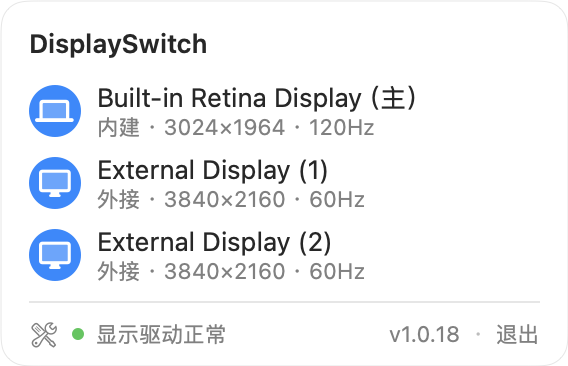
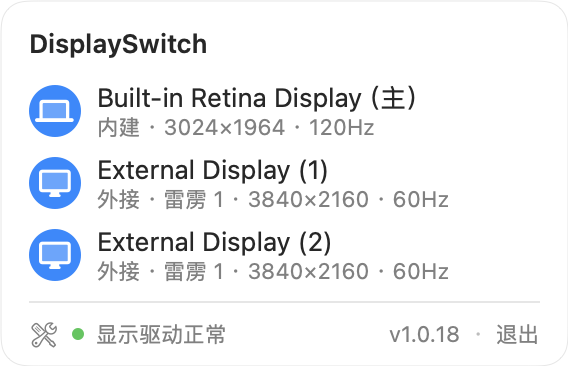
✨ 候选版 1.0.18:说明行写外接屏接在 Mac 的哪个口,如「外接 · 雷雳 1」
- 按系统显示交换器的当前路由对应:屏的显示控制器(dispextN)→ 下游通路 → 机身端口号与类型
- 按控制器对应,同型号、EDID 相同的屏也不会对错;读不到就不写,关着的屏不写口
- 写法:雷雳 N / USB-C N / HDMI;USB-C 口有雷雳隧道通路即算雷雳口
- 真机:两块屏都读出「雷雳 1」,与端口传输节点、系统信息一致;首次约 50 毫秒,之后约 1 毫秒
- 新增 8 项测试(路由解析、真实形态夹具的整链对应、说明行、真机自洽)
- 显示器那一端的接口识别只记录,不做

diff --git a/Sources/DisplaySwitchCore/MacPort.swift b/Sources/DisplaySwitchCore/MacPort.swift
@@ -1,0 +1,98 @@
+import Foundation
+
+/// 外接屏接在 Mac 的哪个口——只说电脑这一端(他的要求,2026-10-23:「外接 · 雷雳 1」这样)。
+/// 显示器那一端接的什么口不写:DDC/CI 其实读得到当前输入源,但编号由厂商自定,他判断意义不大。
+public enum MacPort: Equatable, Sendable {
+    /// 带雷雳的 USB-C 口(机身上标着闪电的那种),编号同系统信息里的 Receptacle。
+    case thunderbolt(Int)
+    /// 不带雷雳的 USB-C 口。
+    case usbC(Int)
+    case hdmi(Int)
+}
+
+/// 说明行里的写法:「雷雳 1」「USB-C 2」「HDMI」。机身只有一个 HDMI 口时不写编号。
+public func macPortLabel(_ port: MacPort) -> String {
+    switch port {
+    case .thunderbolt(let n): "雷雳 \(n)"
+    case .usbC(let n): "USB-C \(n)"
+    case .hdmi(let n): n == 1 ? "HDMI" : "HDMI \(n)"
+    }
+}
+
+// MARK: - 从系统的显示交换器读出「哪块屏走哪个口」
+//
+// Apple Silicon 上,每块外接屏由一个显示控制器(设备树里的 `dispext0`、`dispext1`……)输出,
+// 再经显示交换器(`display-crossbar0`)路由到某个机身端口的某条通路(`atc0` 的直连口,或它的几条雷雳隧道)。
+// 交换器驱动的 `current-state` 记着当前路由,形如 `0:ufp0,0-dfp0,1`:上游第 0 个(`ufp-endpoints` 里的
+// `dispext0`)接到下游第 0 个端点的 1 号口。下游每条通路的节点上写着 `port-type`(2 = USB-C,6 = HDMI)、
+// `port-number`(机身端口号)与 `transport-tunneled`(是不是雷雳隧道)。2026-10-23 在他的机器上逐项核对过:
+// 两块同型号屏分别是 `0:ufp0,0-dfp0,1` 与 `0:ufp1,0-dfp0,2`,即 1 号口的两条雷雳隧道,
+// 与端口传输节点(`Port-USB-C@1/CIO/DisplayPort@0/1`)、系统信息(Receptacle 1 上接着拓展坞)一致。
+// 这条链按显示控制器对应,**同型号、EDID 完全相同的两块屏也不会对错**——EDID 对不上是哪块,曾是不写接法的原因。
+// 都是系统未写成文档的数据,解析不了就不写,不猜。
+
+/// 交换器里的一条路由。
+struct CrossbarRoute: Equatable {
+    let domain: Int
+    /// 上游序号:交换器 `ufp-endpoints` 里的第几个(如 `dispext0`)。
+    let ufp: Int
+    /// 下游端点序号(对应下游节点的 `dp-switch-dfp-endpoint`)。
+    let dfpEndpoint: Int
+    /// 下游端点里的第几条通路(对应 `dp-switch-dfp-port`;0 是直连,1 起是雷雳隧道)。
+    let dfpPort: Int
+}
+
+/// 解析一条路由,如 `0:ufp0,0-dfp0,1`;格式对不上返回 nil。
+func parseCrossbarRoute(_ text: String) -> CrossbarRoute? {
+    let pattern = #"^(\d+):ufp(\d+),\d+-dfp(\d+),(\d+)$"#
+    guard let regex = try? NSRegularExpression(pattern: pattern),
+          let m = regex.firstMatch(in: text, range: NSRange(text.startIndex..., in: text)), m.numberOfRanges == 5 else { return nil }
+    let n = (1...4).map { Int((text as NSString).substring(with: m.range(at: $0))) }
+    guard let domain = n[0], let ufp = n[1], let endpoint = n[2], let port = n[3] else { return nil }
+    return CrossbarRoute(domain: domain, ufp: ufp, dfpEndpoint: endpoint, dfpPort: port)
+}
+
+/// 交换器下游的一条通路(设备树里 `atc0-dpphy`、`atc0-dpin0` 这类节点上的属性)。
+struct CrossbarDFP: Equatable {
+    let domain: Int
+    let endpoint: Int
+    let port: Int
+    /// 2 = USB-C,6 = HDMI(实测)。
+    let portType: Int
+    let portNumber: Int
+    let tunneled: Bool
+}
+
+/// 一条通路属于机身哪个口。USB-C 口只要有雷雳隧道通路(同一端点下有 `tunneled` 的),就是雷雳口——
+/// 即便这块屏此刻是直连(不走隧道),口本身还是机身上那个雷雳口。
+func macPort(of dfp: CrossbarDFP, among all: [CrossbarDFP]) -> MacPort? {
+    switch dfp.portType {
+    case 2:
+        let hasTunnel = all.contains { $0.domain == dfp.domain && $0.endpoint == dfp.endpoint && $0.tunneled }
+        return hasTunnel ? .thunderbolt(dfp.portNumber) : .usbC(dfp.portNumber)
+    case 6:
+        return .hdmi(dfp.portNumber)
+    default:
+        return nil
+    }
+}
+
+/// 把交换器的路由翻成「显示控制器名 → 机身端口」,如 `["dispext0": .thunderbolt(1)]`。
+/// 某条路由对不上上游名字或下游通路,就跳过那一条。
+func macPortsByController(routes: [String], ufpEndpoints: [String], dfps: [CrossbarDFP]) -> [String: MacPort] {
+    var result: [String: MacPort] = [:]
+    for text in routes {
+        guard let r = parseCrossbarRoute(text), ufpEndpoints.indices.contains(r.ufp),
+              let dfp = dfps.first(where: { $0.domain == r.domain && $0.endpoint == r.dfpEndpoint && $0.port == r.dfpPort }),
+              let port = macPort(of: dfp, among: dfps) else { continue }
+        result[ufpEndpoints[r.ufp]] = port
+    }
+    return result
+}
+
+/// 从 CoreDisplay 给的设备树位置里取出显示控制器名,如 `…/dispext0@B0000000/…` → `dispext0`。
+func displayController(inLocation location: String) -> String? {
+    guard let regex = try? NSRegularExpression(pattern: #"(dispext\d+)"#),
+          let m = regex.firstMatch(in: location, range: NSRange(location.startIndex..., in: location)) else { return nil }
+    return (location as NSString).substring(with: m.range(at: 1))
+}

diff --git a/Sources/DisplaySwitchCore/CGDisplayService.swift b/Sources/DisplaySwitchCore/CGDisplayService.swift
@@ -116,6 +116,79 @@ public final class CGDisplayService: SystemDisplayService {
         return DisplayMode(pixelWidth: mode.pixelWidth, pixelHeight: mode.pixelHeight, refreshRate: mode.refreshRate)
     }
 
+    /// 见协议注释。三步,任何一步拿不到就少写或不写,不猜:
+    /// ① 每块亮着的外接屏由哪个显示控制器输出(CoreDisplay 私有符号给的设备树位置里的 `dispextN`);
+    /// ② 显示交换器把各控制器路由到哪条下游通路(交换器驱动的 `current-state`);
+    /// ③ 那条通路属于机身哪个口(通路节点上的 `port-type` / `port-number` / `transport-tunneled`)。
+    public func macPorts() -> [CGDirectDisplayID: MacPort] {
+        guard let info = Self.displayInfoDictionary else { return [:] }
+        let byController = Self.macPortsByDisplayController()
+        guard !byController.isEmpty else { return [:] }
+        var result: [CGDirectDisplayID: MacPort] = [:]
+        for d in activeDisplays() where !d.isBuiltin {
+            guard let dict = info(d.id)?.takeRetainedValue() as? [String: Any],
+                  let location = dict["IODisplayLocation"] as? String,
+                  let controller = displayController(inLocation: location),
+                  let port = byController[controller] else { continue }
+            result[d.id] = port
+        }
+        return result
+    }
+
+    private typealias DisplayInfoFunction = @convention(c) (CGDirectDisplayID) -> Unmanaged<CFDictionary>?
+
+    /// CoreDisplay 的私有符号:给出一块屏在设备树里的位置。公开接口里没有从屏幕编号到显示控制器的对应;
+    /// 显示器工具(MonitorControl、BetterDisplay)也靠它。找不到就不写接口。
+    private static let displayInfoDictionary: DisplayInfoFunction? = {
+        guard let handle = dlopen("/System/Library/Frameworks/CoreDisplay.framework/CoreDisplay", RTLD_LAZY),
+              let symbol = dlsym(handle, "CoreDisplay_DisplayCreateInfoDictionary") else { return nil }
+        return unsafeBitCast(symbol, to: DisplayInfoFunction.self)
+    }()
+
+    /// 读显示交换器:各交换器驱动(`AppleDisplayCrossbar` 的子类)的当前路由、它上游的控制器名单,
+    /// 加上所有下游通路的属性(挂在每个 `IODPPortService` 上方的设备节点上)。
+    private static func macPortsByDisplayController() -> [String: MacPort] {
+        var dfps: [CrossbarDFP] = []
+        forEachService(matching: "IODPPortService") { svc in
+            func number(_ key: String) -> Int? {
+                guard let data = IORegistryEntrySearchCFProperty(svc, kIOServicePlane, key as CFString, kCFAllocatorDefault,
+                                                                 IOOptionBits(kIORegistryIterateRecursively | kIORegistryIterateParents)) as? Data,
+                      data.count >= 4 else { return nil }
+                return Int(data.withUnsafeBytes { $0.loadUnaligned(as: UInt32.self) })
+            }
+            guard let domain = number("dp-switch-dfp-domain"), let endpoint = number("dp-switch-dfp-endpoint"),
+                  let port = number("dp-switch-dfp-port"), let type = number("port-type"),
+                  let portNumber = number("port-number") else { return }
+            dfps.append(CrossbarDFP(domain: domain, endpoint: endpoint, port: port, portType: type,
+                                    portNumber: portNumber, tunneled: (number("transport-tunneled") ?? 0) != 0))
+        }
+        var result: [String: MacPort] = [:]
+        forEachService(matching: "AppleDisplayCrossbar") { crossbar in
+            guard let state = properties(of: crossbar)["current-state"] as? [String: Any],
+                  let routes = state["dfp"] as? [String] else { return }
+            var parent: io_registry_entry_t = 0
+            guard IORegistryEntryGetParentEntry(crossbar, kIOServicePlane, &parent) == KERN_SUCCESS else { return }
+            defer { IOObjectRelease(parent) }
+            // 名单是一串以 0 结尾的字符串:"dispext0\0dispext1\0…"。
+            guard let data = properties(of: parent)["ufp-endpoints"] as? Data else { return }
+            let names = data.split(separator: 0).map { String(decoding: $0, as: UTF8.self) }
+            result.merge(macPortsByController(routes: routes, ufpEndpoints: names, dfps: dfps)) { first, _ in first }
+        }
+        return result
+    }
+
+    private static func forEachService(matching className: String, _ body: (io_object_t) -> Void) {
+        var iter: io_iterator_t = 0
+        guard IOServiceGetMatchingServices(kIOMainPortDefault, IOServiceMatching(className), &iter) == KERN_SUCCESS else { return }
+        defer { IOObjectRelease(iter) }
+        var svc = IOIteratorNext(iter)
+        while svc != 0 {
+            body(svc)
+            IOObjectRelease(svc)
+            svc = IOIteratorNext(iter)
+        }
+    }
+
     private static func properties(of service: io_object_t) -> [String: Any] {
         var unmanaged: Unmanaged<CFMutableDictionary>?
         guard IORegistryEntryCreateCFProperties(service, &unmanaged, kCFAllocatorDefault, 0) == KERN_SUCCESS,

diff --git a/Tests/DisplaySwitchCoreTests/MacPortTests.swift b/Tests/DisplaySwitchCoreTests/MacPortTests.swift
@@ -1,0 +1,68 @@
+import Testing
+import Foundation
+@testable import DisplaySwitchCore
+
+// 夹具取自他机器上的显示交换器(2026-10-23,`ioreg -l` 原样抄录形态):
+// 两块同型号屏经拓展坞接在 1 号雷雳口,分别走它的第 1、2 条雷雳隧道;机身另有 2、3 号雷雳口与一个 HDMI 口。
+private let routes = ["0:ufp0,0-dfp0,1", "0:ufp1,0-dfp0,2"]
+private let ufps = ["dispext0", "dispext1", "dispext2", "dispext3", "dispext4", "dispext5", "dispext6", "dispext7", "scodec0"]
+private let dfps: [CrossbarDFP] = {
+    var all: [CrossbarDFP] = []
+    for (endpoint, number) in [(0, 1), (1, 2), (2, 3)] {          // atc0~atc2:1~3 号 USB-C 口,直连 + 4 条雷雳隧道
+        all.append(CrossbarDFP(domain: 0, endpoint: endpoint, port: 0, portType: 2, portNumber: number, tunneled: false))
+        for p in 1...4 { all.append(CrossbarDFP(domain: 0, endpoint: endpoint, port: p, portType: 2, portNumber: number, tunneled: true)) }
+    }
+    all.append(CrossbarDFP(domain: 0, endpoint: 3, port: 0, portType: 6, portNumber: 1, tunneled: false))   // atc3:HDMI
+    return all
+}()
+
+@Test("接口写法:雷雳 N、USB-C N;只有一个 HDMI 口时不写编号")
+func macPortLabels() {
+    #expect(macPortLabel(.thunderbolt(1)) == "雷雳 1")
+    #expect(macPortLabel(.usbC(2)) == "USB-C 2")
+    #expect(macPortLabel(.hdmi(1)) == "HDMI")
+    #expect(macPortLabel(.hdmi(2)) == "HDMI 2")
+}
+
+@Test("解析交换器路由:上游序号、下游端点与通路;格式不对就不认")
+func crossbarRouteParsing() {
+    #expect(parseCrossbarRoute("0:ufp1,0-dfp0,2") == CrossbarRoute(domain: 0, ufp: 1, dfpEndpoint: 0, dfpPort: 2))
+    #expect(parseCrossbarRoute("1:ufp3,0-dfp2,0") == CrossbarRoute(domain: 1, ufp: 3, dfpEndpoint: 2, dfpPort: 0))
+    #expect(parseCrossbarRoute("ufp1-dfp0") == nil)
+    #expect(parseCrossbarRoute("") == nil)
+}
+
+@Test("按交换器路由对应:同型号两块屏也各对各的控制器,都是 1 号雷雳口")
+func macPortsFromCrossbar() {
+    #expect(macPortsByController(routes: routes, ufpEndpoints: ufps, dfps: dfps)
+            == ["dispext0": .thunderbolt(1), "dispext1": .thunderbolt(1)])
+}
+
+@Test("接在不同口的屏分别对上:直连雷雳口也算雷雳口,HDMI 单独认")
+func macPortsOnDifferentPorts() {
+    let mixed = ["0:ufp0,0-dfp2,0", "0:ufp1,0-dfp3,0"]                // dispext0 直连 3 号口,dispext1 走 HDMI
+    #expect(macPortsByController(routes: mixed, ufpEndpoints: ufps, dfps: dfps)
+            == ["dispext0": .thunderbolt(3), "dispext1": .hdmi(1)])
+}
+
+@Test("没有雷雳隧道通路的 USB-C 口写 USB-C;对不上的路由跳过,不猜")
+func macPortFallbacks() {
+    let plain = [CrossbarDFP(domain: 0, endpoint: 5, port: 0, portType: 2, portNumber: 4, tunneled: false)]
+    #expect(macPortsByController(routes: ["0:ufp0,0-dfp5,0"], ufpEndpoints: ufps, dfps: plain) == ["dispext0": .usbC(4)])
+    #expect(macPortsByController(routes: ["0:ufp0,0-dfp9,1", "0:ufp42,0-dfp0,1", "乱码"], ufpEndpoints: ufps, dfps: dfps).isEmpty)
+    let unknownType = [CrossbarDFP(domain: 0, endpoint: 0, port: 0, portType: 9, portNumber: 1, tunneled: false)]
+    #expect(macPortsByController(routes: ["0:ufp0,0-dfp0,0"], ufpEndpoints: ufps, dfps: unknownType).isEmpty)
+}
+
+@Test("从设备树位置里取显示控制器名")
+func controllerFromLocation() {
+    #expect(displayController(inLocation: "IOService:/AppleARMPE/arm-io@10F00000/AppleT605xIO/dispext0@B0000000/IOMobileFramebufferShim") == "dispext0")
+    #expect(displayController(inLocation: "IOService:/AppleARMPE/arm-io/disp0@A0000000") == nil)
+}
+
+@Test("真机自洽:查到接口的只有亮着的外接屏")
+func realMacPortsOnlyForActiveExternals() {
+    let svc = CGDisplayService()
+    let externals = Set(svc.activeDisplays().filter { !$0.isBuiltin }.map(\.id))
+    #expect(Set(svc.macPorts().keys).isSubset(of: externals))
+}

diff --git a/Tests/DisplaySwitchCoreTests/DisplayControllerTests.swift b/Tests/DisplaySwitchCoreTests/DisplayControllerTests.swift
@@ -31,6 +31,9 @@ final class MockService: SystemDisplayService {
     func liveExternalPorts() -> [String]? {
         liveQueryFails ? nil : liveConnected.sorted().map { portNames[$0] ?? "Port-Mock@\($0)/DisplayPort" }
     }
+    /// 亮着的外接屏接在 Mac 的哪个口(真机读显示交换器的路由);关着的屏查不到,不返回。
+    var ports: [CGDirectDisplayID: MacPort] = [:]
+    func macPorts() -> [CGDirectDisplayID: MacPort] { ports.filter { activeIDs.contains($0.key) } }
     /// 当前显示模式;没设的屏返回 nil(如已关闭)。
     var modes: [CGDirectDisplayID: DisplayMode] = [:]
     func currentMode(_ id: CGDirectDisplayID) -> DisplayMode? { activeIDs.contains(id) ? modes[id] : nil }
@@ -642,7 +645,7 @@ func diagnosticsPortsFollowPhysicalConnection() {
 
 // MARK: - 面板信息:每块屏的说明行、锁住原因、顶部摘要
 
-@Test("面板说明行:内建 / 外接、分辨率与刷新率;不写接法")
+@Test("面板说明行:内建 / 外接、分辨率与刷新率;查不到电脑端接口时不写接法")
 func panelDetailLines() {
     let svc = MockService(all: [makeInfo(id: 1, builtin: true, x: 0), makeInfo(id: 4, x: 1920), makeInfo(id: 5, x: 3840)])
     svc.hasBuiltIn = true
@@ -661,6 +664,26 @@ func panelDetailLines() {
     // 走机身 HDMI 也一样不写
     svc.unplug(5); svc.portNames = [4: "Port-HDMI@1/DisplayPort"]
     #expect(ctrl.menuItems().first { $0.id == 4 }?.detail == "外接 · 3840×2160 · 60Hz")
+}
+
+@Test("面板说明行:亮着的外接屏写电脑端的口,如「外接 · 雷雳 1」;内建屏、关着的屏不写")
+func panelDetailWithMacPort() {
+    let svc = MockService(all: [makeInfo(id: 1, builtin: true, x: 0), makeInfo(id: 4, x: 1920), makeInfo(id: 5, x: 3840)])
+    svc.hasBuiltIn = true
+    svc.modes = [1: DisplayMode(pixelWidth: 3024, pixelHeight: 1964, refreshRate: 120),
+                 4: DisplayMode(pixelWidth: 3840, pixelHeight: 2160, refreshRate: 60),
+                 5: DisplayMode(pixelWidth: 2560, pixelHeight: 1440, refreshRate: 60)]
+    svc.ports = [1: .thunderbolt(9), 4: .thunderbolt(1), 5: .hdmi(1)]   // 内建屏给了也不写
+    let ctrl = DisplayController(service: svc)
+    var items = Dictionary(uniqueKeysWithValues: ctrl.menuItems().map { ($0.id, $0) })
+    #expect(items[1]?.detail == "内建 · 3024×1964 · 120Hz")
+    #expect(items[4]?.detail == "外接 · 雷雳 1 · 3840×2160 · 60Hz")
+    #expect(items[5]?.detail == "外接 · HDMI · 2560×1440 · 60Hz")
+    _ = ctrl.toggle(id: 4)
+    items = Dictionary(uniqueKeysWithValues: ctrl.menuItems().map { ($0.id, $0) })
+    #expect(items[4]?.detail == "外接 · 已关闭")
+    // 关掉后仍按亮着时那句(带接口)预留宽度,开回来面板不变宽
+    #expect(items[4]?.sizingDetail == "外接 · 雷雳 1 · 3840×2160 · 60Hz")
 }
 
 @Test("面板说明行:被关掉的屏写「已关闭」,不写分辨率")

diff --git a/Sources/DisplaySwitchCore/DisplayController.swift b/Sources/DisplaySwitchCore/DisplayController.swift
@@ -128,11 +128,12 @@ public final class DisplayController {
         // 整组(活跃+已关闭)一起算标签:同名屏按 UUID 稳定编号,关掉其一不丢号、重开不漂移。
         let labels = displayLabels(for: ordered)
         let fallback = builtInFallbackAvailable()
+        let ports = service.macPorts()
         return ordered.map { d in
             let on = disabled[d.id] == nil
             let canOff = (service.isSupported && on) ? canDisable(d, among: active, builtInFallback: fallback) : false
             let label = labels[d.id] ?? displayLabel(for: d)
-            let detail = detailLine(for: d, isOn: on)
+            let detail = detailLine(for: d, isOn: on, port: ports[d.id])
             if on { knownLitDetails[key(of: d)] = detail }
             return DisplayMenuItem(id: d.id, label: label, isOn: on, canToggleOff: canOff,
                                    isBuiltin: d.isBuiltin, detail: detail,
@@ -142,13 +143,16 @@ public final class DisplayController {
         }
     }
 
-    /// 说明行:内建 / 外接 → 分辨率与刷新率(亮着时)或「已关闭」。不写接法,原因见 PanelText。
-    private func detailLine(for d: DisplayInfo, isOn: Bool) -> String {
+    /// 说明行:内建 / 外接 → 接在 Mac 的哪个口(亮着的外接屏,查得到时)→ 分辨率与刷新率;关着的写「已关闭」。
+    /// 口只写电脑这一端,如「外接 · 雷雳 1 · 3840×2160 · 60Hz」,原因见 PanelText。
+    /// 关着的屏不写口:它的显示控制器已不再路由到任何口,查不到。
+    private func detailLine(for d: DisplayInfo, isOn: Bool, port: MacPort?) -> String {
         var parts = [d.isBuiltin ? "内建" : "外接"]
         if !isOn {
             parts.append("已关闭")
-        } else if let mode = service.currentMode(d.id) {
-            parts.append(modeText(mode))
+        } else {
+            if !d.isBuiltin, let port { parts.append(macPortLabel(port)) }
+            if let mode = service.currentMode(d.id) { parts.append(modeText(mode)) }
         }
         return parts.joined(separator: " · ")
     }

diff --git a/Sources/DisplaySwitchCore/PanelText.swift b/Sources/DisplaySwitchCore/PanelText.swift
@@ -2,10 +2,10 @@ import Foundation
 
 /// 面板上给人看的文字。全部是纯函数,界面层只负责摆放,不再拼字。
 
-// 不写接法(雷雳 / HDMI / USB-C)。系统能确定的只有 Mac 这一端:信号从哪个口出、走不走雷雳隧道;
-// 他关心的是显示器那头接的什么线,而那一头系统不知道——实测(2026-10-22):两块屏一块接 DP 线、
-// 一块接 USB-C 线,系统为每块屏记的都只是「上游 DP、下游 DP」;同型号两块屏的 EDID 也一模一样,
-// 连 Mac 这一端都对不上是哪一块。写 Mac 这一端(曾写「雷雳」),读起来就是在说显示器那头,等于写错。
+// 接法只写电脑这一端、带上口的编号:「外接 · 雷雳 1」(他的要求,2026-10-23),写法见 `macPortLabel`。
+// 曾不写接法(2026-10-22):当时只写一个「雷雳」,读起来像在说显示器那头接的线(他一块接 DP 线、一块接 USB-C 线),
+// 而且同型号两块屏 EDID 一模一样,按 EDID 对不上哪块屏走哪个口。现在按显示交换器的路由对应(见 `MacPort.swift`),
+// 写明是 Mac 上的几号口;显示器那头接的什么口不写(DDC/CI 读得到,编号由厂商自定,他判断意义不大)。
 // 接口路径仍原样写进诊断(见 `DisplayController` 的诊断快照),排查时用。
 
 /// 分辨率与刷新率,如 `3840×2160 · 60Hz`。刷新率为 0(可变刷新率)时不写 Hz。

diff --git a/Sources/DisplaySwitchCore/SystemDisplayService.swift b/Sources/DisplaySwitchCore/SystemDisplayService.swift
@@ -58,6 +58,10 @@ public protocol SystemDisplayService {
     /// 某块屏当前的显示模式;屏没点亮或查不到时返回 nil。只用于面板显示。
     func currentMode(_ id: CGDirectDisplayID) -> DisplayMode?
 
+    /// 亮着的外接屏各自接在 Mac 的哪个口(如雷雳 1),只用于面板的说明行;查不到的屏不在结果里。
+    /// 读的是系统显示交换器的当前路由,原理与实测见 `MacPort.swift`。
+    func macPorts() -> [CGDirectDisplayID: MacPort]
+
     /// 注册「显示器被物理拔掉」的**内核事件**监听(IOKit 服务终止通知),用于全黑救援。
     ///
     /// 为什么不用 CoreGraphics 的 `CGDisplayRegisterReconfigurationCallback`:
@@ -121,4 +125,9 @@ public protocol SystemDisplayService {
 
     /// 启用/断开某块屏,返回是否成功。
     func setEnabled(_ id: CGDirectDisplayID, _ on: Bool) -> Bool
+}
+
+public extension SystemDisplayService {
+    /// 默认查不到:测试替身与演示数据不必各自实现。
+    func macPorts() -> [CGDirectDisplayID: MacPort] { [:] }
 }

diff --git a/Sources/PanelSnapshots/main.swift b/Sources/PanelSnapshots/main.swift
@@ -37,6 +37,10 @@ final class DemoDisplayService: SystemDisplayService {
         return id == 1 ? DisplayMode(pixelWidth: 3024, pixelHeight: 1964, refreshRate: 120)
                        : DisplayMode(pixelWidth: 3840, pixelHeight: 2160, refreshRate: 60)
     }
+    /// 两块外接屏经拓展坞接在 1 号雷雳口(与真机常见接法一致),说明行写「外接 · 雷雳 1」。
+    func macPorts() -> [CGDirectDisplayID: MacPort] {
+        Dictionary(uniqueKeysWithValues: [2, 3].filter { !off.contains($0) }.map { ($0, MacPort.thunderbolt(1)) })
+    }
     func observeDisplayDisconnect(_ handler: @escaping (DisplayDisconnectSignal) -> Void) {}
     func inactiveDisplayIDs() -> [CGDirectDisplayID]? { off.sorted() }
     func isClamshellClosed() -> Bool? { false }

diff --git a/README.md b/README.md
@@ -24,7 +24,7 @@ DisplaySwitch 只做这一件事，但把它做到不会出事：开关任意一
 
 ## 功能
 
-- 点菜单栏图标弹出面板，**每块屏一张卡片**（含内建屏）：内建 / 外接、分辨率与刷新率。
+- 点菜单栏图标弹出面板，**每块屏一张卡片**（含内建屏）：内建 / 外接、接在 Mac 的哪个口（如「雷雳 1」）、分辨率与刷新率。
 - **点整行就开 / 关**，没有小开关要瞄准：开着的屏行首是蓝色实心圆，关着的是浅灰圆、说明行写「已关闭」。
 - 外观照 macOS 自己的 Wi-Fi 菜单：系统玻璃材质，图标、文字、锁、悬停底与它逐像素对照过；macOS 27 上打开面板时菜单栏图标也有系统的高亮底。
 - **只剩最后一块亮着时，顶部直接写原因**：「至少要保留一块屏幕点亮」，被锁的那行带一把小锁；再点它，锁和提示会抖一下。
